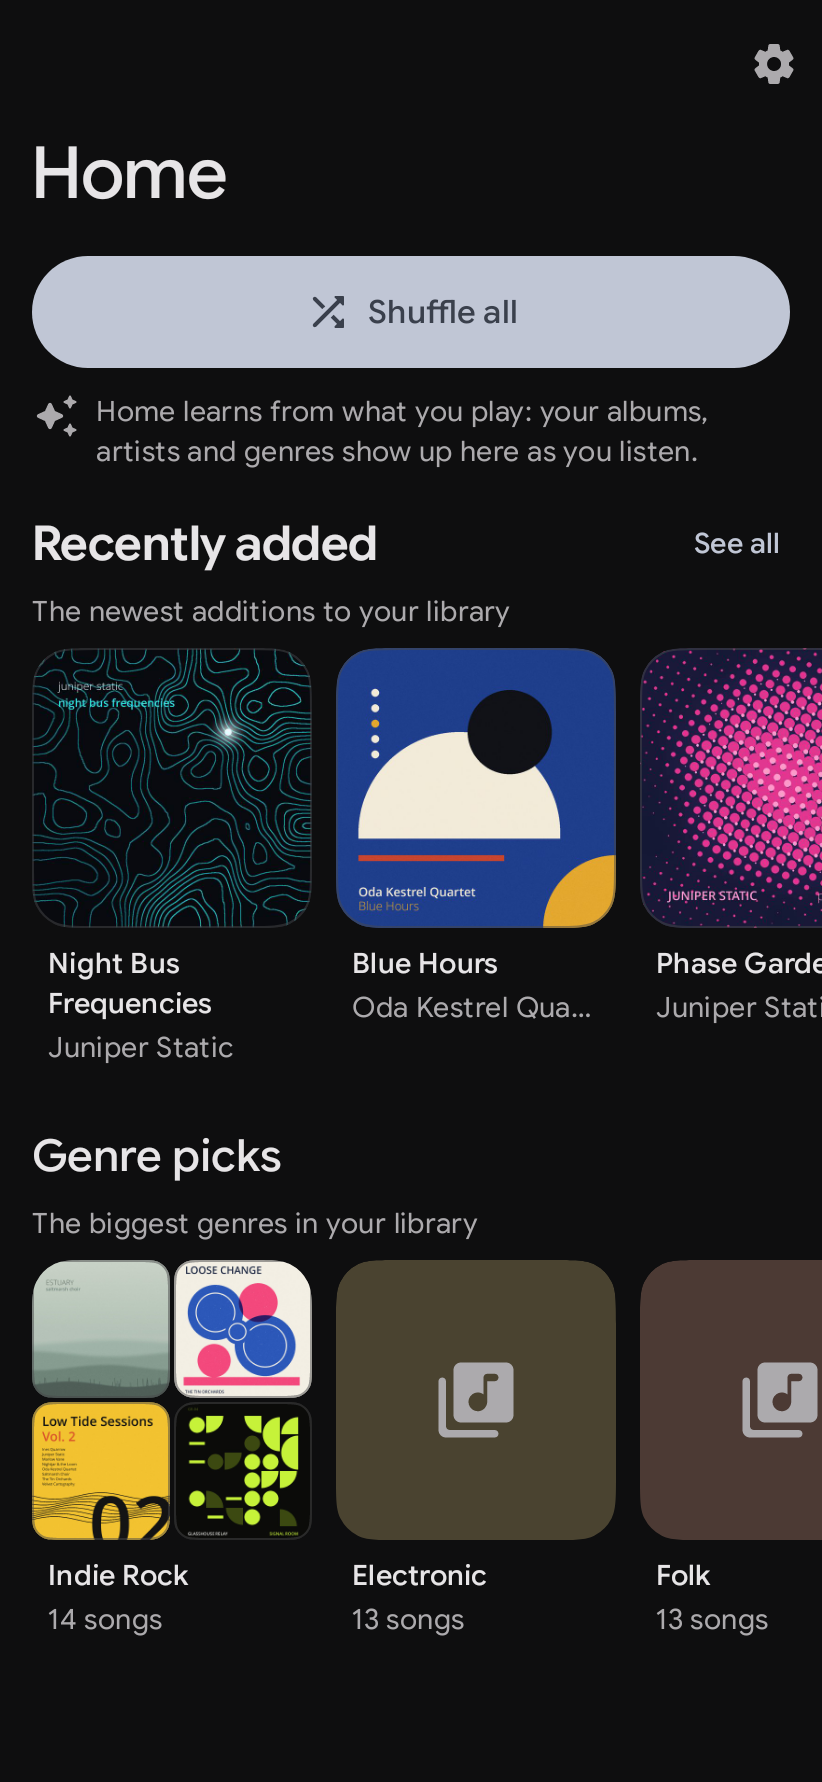
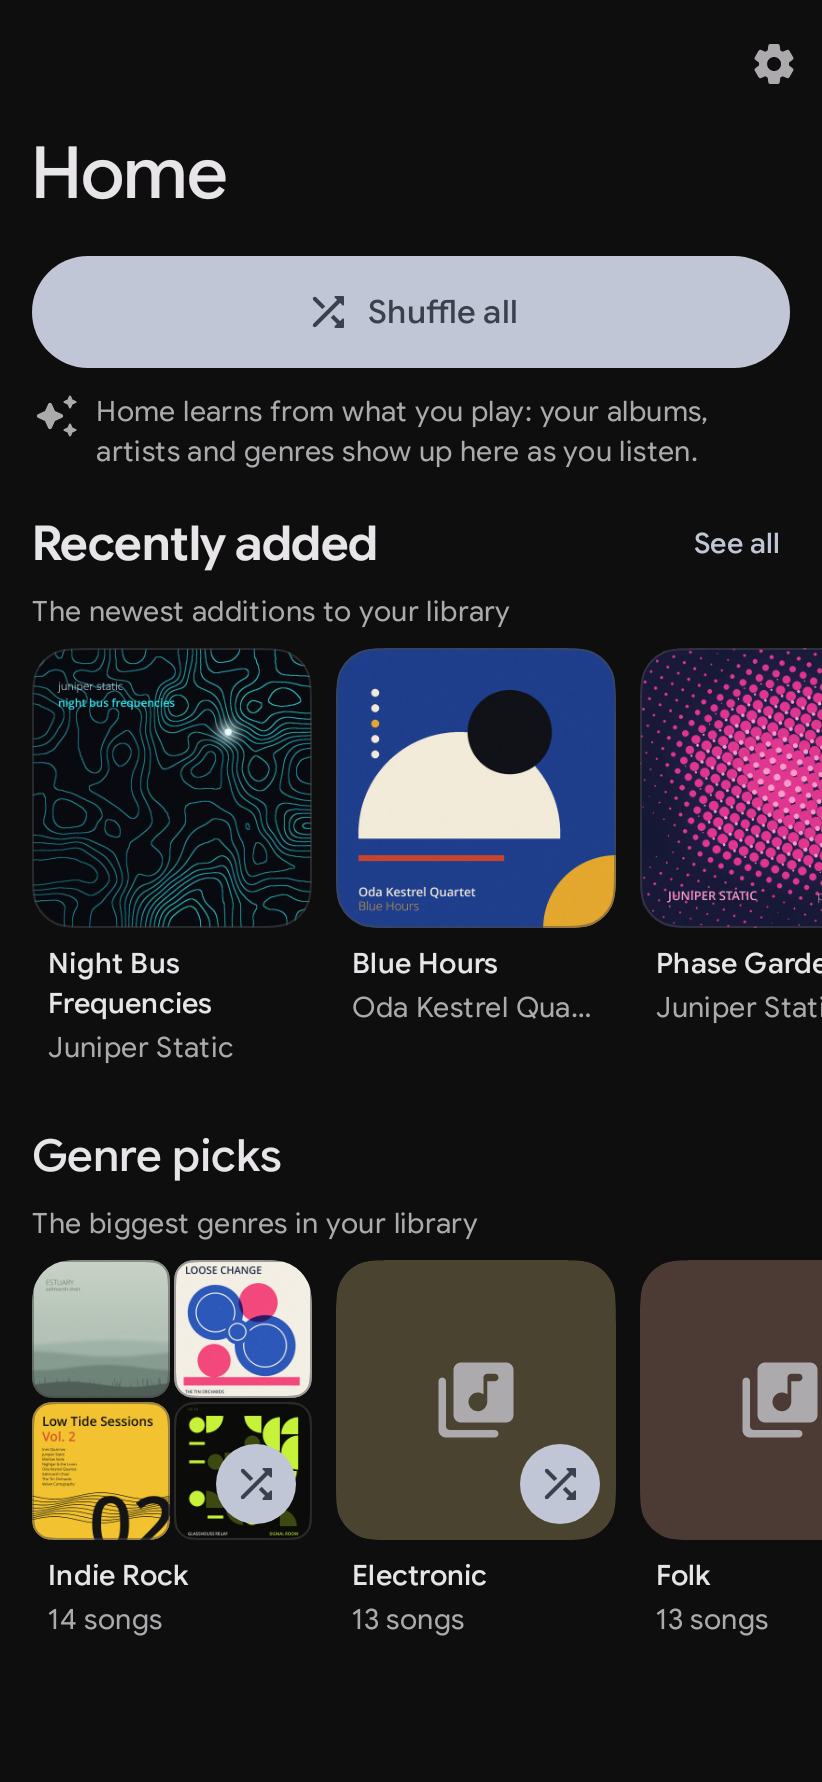
fix(home): open the genre when a Genre picks tile is tapped
A Genre picks tile now opens the genre like every other Home tile; a shuffle button on the tile plays it.

Changed region(s): [[0.2433, 0.8025, 0.365, 0.8642], [0.6387, 0.8025, 0.7299, 0.8642]]

diff --git a/android/app/src/main/java/com/simplecityapps/shuttle/ui/screens/home/HomeItemTile.kt b/android/app/src/main/java/com/simplecityapps/shuttle/ui/screens/home/HomeItemTile.kt
@@ -1,7 +1,9 @@
 package com.simplecityapps.shuttle.ui.screens.home
 
 import androidx.annotation.StringRes
+import androidx.compose.foundation.layout.Box
 import androidx.compose.foundation.layout.fillMaxSize
+import androidx.compose.foundation.layout.padding
 import androidx.compose.foundation.layout.width
 import androidx.compose.material.icons.Icons
 import androidx.compose.material.icons.automirrored.rounded.ArrowForward
@@ -13,7 +15,9 @@ import androidx.compose.material.icons.rounded.History
 import androidx.compose.material.icons.rounded.LibraryAdd
 import androidx.compose.material.icons.rounded.LibraryMusic
 import androidx.compose.material.icons.rounded.Replay
+import androidx.compose.material.icons.rounded.Shuffle
 import androidx.compose.runtime.Composable
+import androidx.compose.ui.Alignment
 import androidx.compose.ui.Modifier
 import androidx.compose.ui.graphics.vector.ImageVector
 import androidx.compose.ui.platform.testTag
@@ -28,6 +32,10 @@ import com.simplecityapps.shuttle.designsystem.component.ArtworkSize
 import com.simplecityapps.shuttle.designsystem.component.GeneratedArtwork
 import com.simplecityapps.shuttle.designsystem.component.GridTile
 import com.simplecityapps.shuttle.designsystem.component.S2Action
+import com.simplecityapps.shuttle.designsystem.component.S2IconButton
+import com.simplecityapps.shuttle.designsystem.component.S2IconButtonSize
+import com.simplecityapps.shuttle.designsystem.component.S2IconButtonStyle
+import com.simplecityapps.shuttle.designsystem.theme.S2Spacing
 import com.simplecityapps.shuttle.model.SmartPlaylistId
 import com.simplecityapps.shuttle.model.Song
 import com.simplecityapps.shuttle.ui.actions.MediaAction
@@ -214,8 +222,8 @@ fun homeItemActions(
 
 /**
  * A shelf tile: a [GridTile] of the item's artwork with its title and [HomeItem.subtitle] under it, where they can't
- * clash with text printed on the art (#404). A tap opens the item, or for a genre shuffles it (a Genre pick is
- * something to put on); a long press has the rest.
+ * clash with text printed on the art (#404). A tap opens the item; a genre's tile also has a shuffle button on its
+ * art (a Genre pick is something to put on); a long press has the rest.
  */
 @Composable
 fun HomeShelfTile(
@@ -231,18 +239,34 @@ fun HomeShelfTile(
     GridTile(
         title = item.title(),
         subtitle = item.subtitle(mixed),
-        onClick = { if (item is HomeItem.GenreItem) callbacks.onAction(item.playAction()) else callbacks.onOpenItem(item) },
+        onClick = { callbacks.onOpenItem(item) },
         onLongClick = actions.showMenu,
         onLongClickLabel = stringResource(R.string.home_show_actions),
         titleLines = if (largeText) LARGE_TEXT_TILE_LINES else 2,
         subtitleLines = if (largeText) LARGE_TEXT_TILE_LINES else 1,
-        artwork = { HomeItemArtwork(item, covers, ArtworkSize.Grid, Modifier.fillMaxSize()) },
+        artwork = {
+            Box(Modifier.fillMaxSize()) {
+                HomeItemArtwork(item, covers, ArtworkSize.Grid, Modifier.fillMaxSize())
+                if (item is HomeItem.GenreItem) {
+                    S2IconButton(
+                        icon = Icons.Rounded.Shuffle,
+                        contentDescription = stringResource(R.string.home_shuffle_item, item.title()),
+                        onClick = { callbacks.onAction(item.playAction()) },
+                        modifier = Modifier.align(Alignment.BottomEnd).padding(S2Spacing.small).testTag(GENRE_SHUFFLE_TAG),
+                        style = S2IconButtonStyle.Filled,
+                        size = S2IconButtonSize.Small,
+                    )
+                }
+            }
+        },
         modifier = modifier
             .width(width)
             .semantics { customActions = actions.accessibilityActions }
             .testTag(item.tileTag),
     )
 }
+
+internal const val GENRE_SHUFFLE_TAG = "homeTile.genre.shuffle"
 
 /** How many lines a tile's title and subtitle may take at the largest font sizes, where one would cut off nearly every title. */
 internal const val LARGE_TEXT_TILE_LINES = 3

diff --git a/android/app/src/test/java/com/simplecityapps/shuttle/ui/screens/home/HomeScreenTest.kt b/android/app/src/test/java/com/simplecityapps/shuttle/ui/screens/home/HomeScreenTest.kt
@@ -7,6 +7,7 @@ import com.simplecityapps.shuttle.ui.actions.MediaSelection
 import com.simplecityapps.shuttle.ui.screens.library.LibraryAvailability
 import com.simplecityapps.shuttle.ui.screens.library.LibraryEmptyScreen
 import com.simplecityapps.shuttle.ui.screens.sources.MusicAccess
+import io.kotest.matchers.collections.shouldBeEmpty
 import io.kotest.matchers.collections.shouldContain
 import io.kotest.matchers.collections.shouldContainExactly
 import io.kotest.matchers.shouldBe
@@ -254,7 +255,7 @@ class HomeScreenTest {
     }
 
     @Test
-    fun `tapping a cell or tile opens it, and a genre tile shuffles the genre`() {
+    fun `tapping a cell or tile opens it, and a genre tile has a shuffle button that plays the genre`() {
         robot.setContent(HomeScenarios.content)
         val genre = HomeScenarios.genres.first()
 
@@ -267,7 +268,13 @@ class HomeScreenTest {
             HomeItem.AlbumItem(HomeScenarios.harbourWeather),
             HomeItem.ArtistItem(HomeScenarios.saltmarshChoir),
             HomeItem.AlbumItem(HomeScenarios.softFocus),
+            HomeItem.GenreItem(genre),
         )
+        robot.actions.shouldBeEmpty()
+
+        robot.scrollTo(genre.name)
+        robot.tapDescription("Shuffle ${genre.name}")
+
         robot.actions shouldContainExactly listOf(HomeItem.GenreItem(genre).playAction())
     }
 

diff --git a/android/app/src/main/java/com/simplecityapps/shuttle/ui/screens/home/HomeScreen.kt b/android/app/src/main/java/com/simplecityapps/shuttle/ui/screens/home/HomeScreen.kt
@@ -77,7 +77,7 @@ class HomeCallbacks(
     val onRefresh: () -> Unit = {},
     /** Opens an item's detail: an album, artist, playlist or genre. */
     val onOpenItem: (HomeItem) -> Unit = {},
-    /** Plays, shuffles or queues an item: a play button, a genre tile's tap, or a TalkBack action. */
+    /** Plays, shuffles or queues an item: a play button, a genre tile's shuffle button, or a TalkBack action. */
     val onAction: (MediaAction) -> Unit = {},
     val onShowActions: (MediaActionsTarget) -> Unit = {},
     /** A section's "See all", shown only for a section with somewhere to go ([HomeSectionId.hasSeeAll]). */
